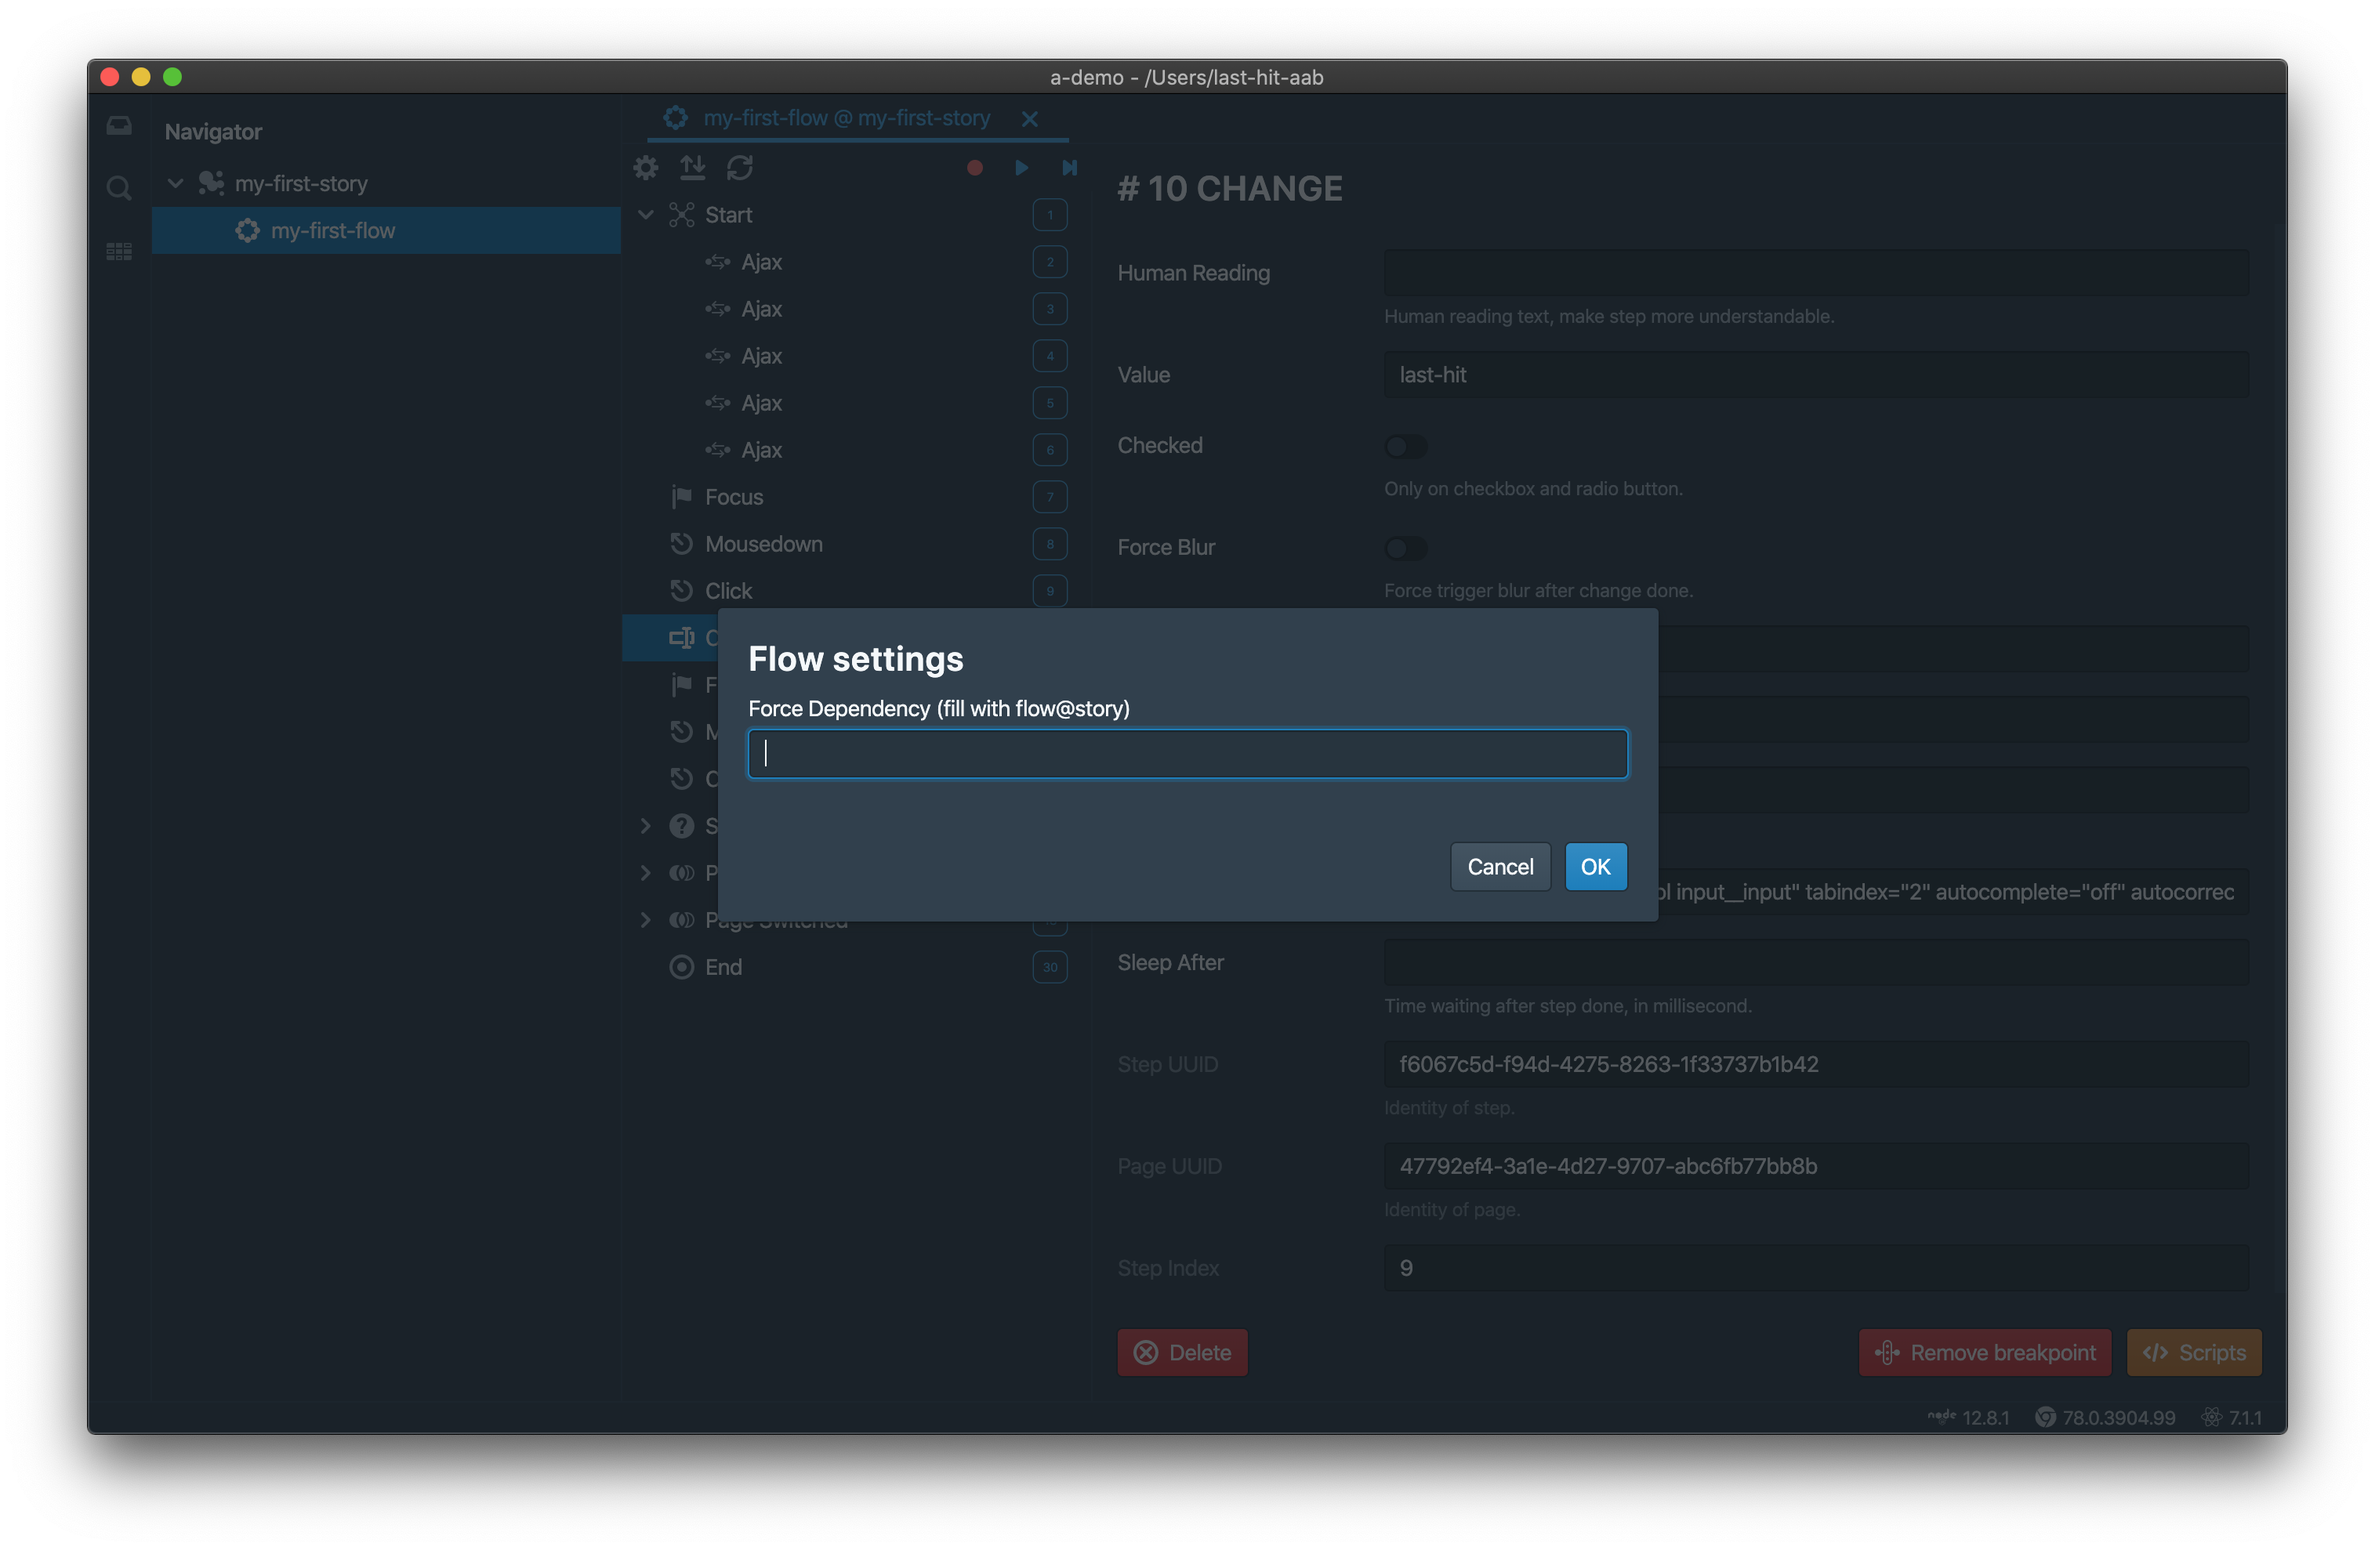
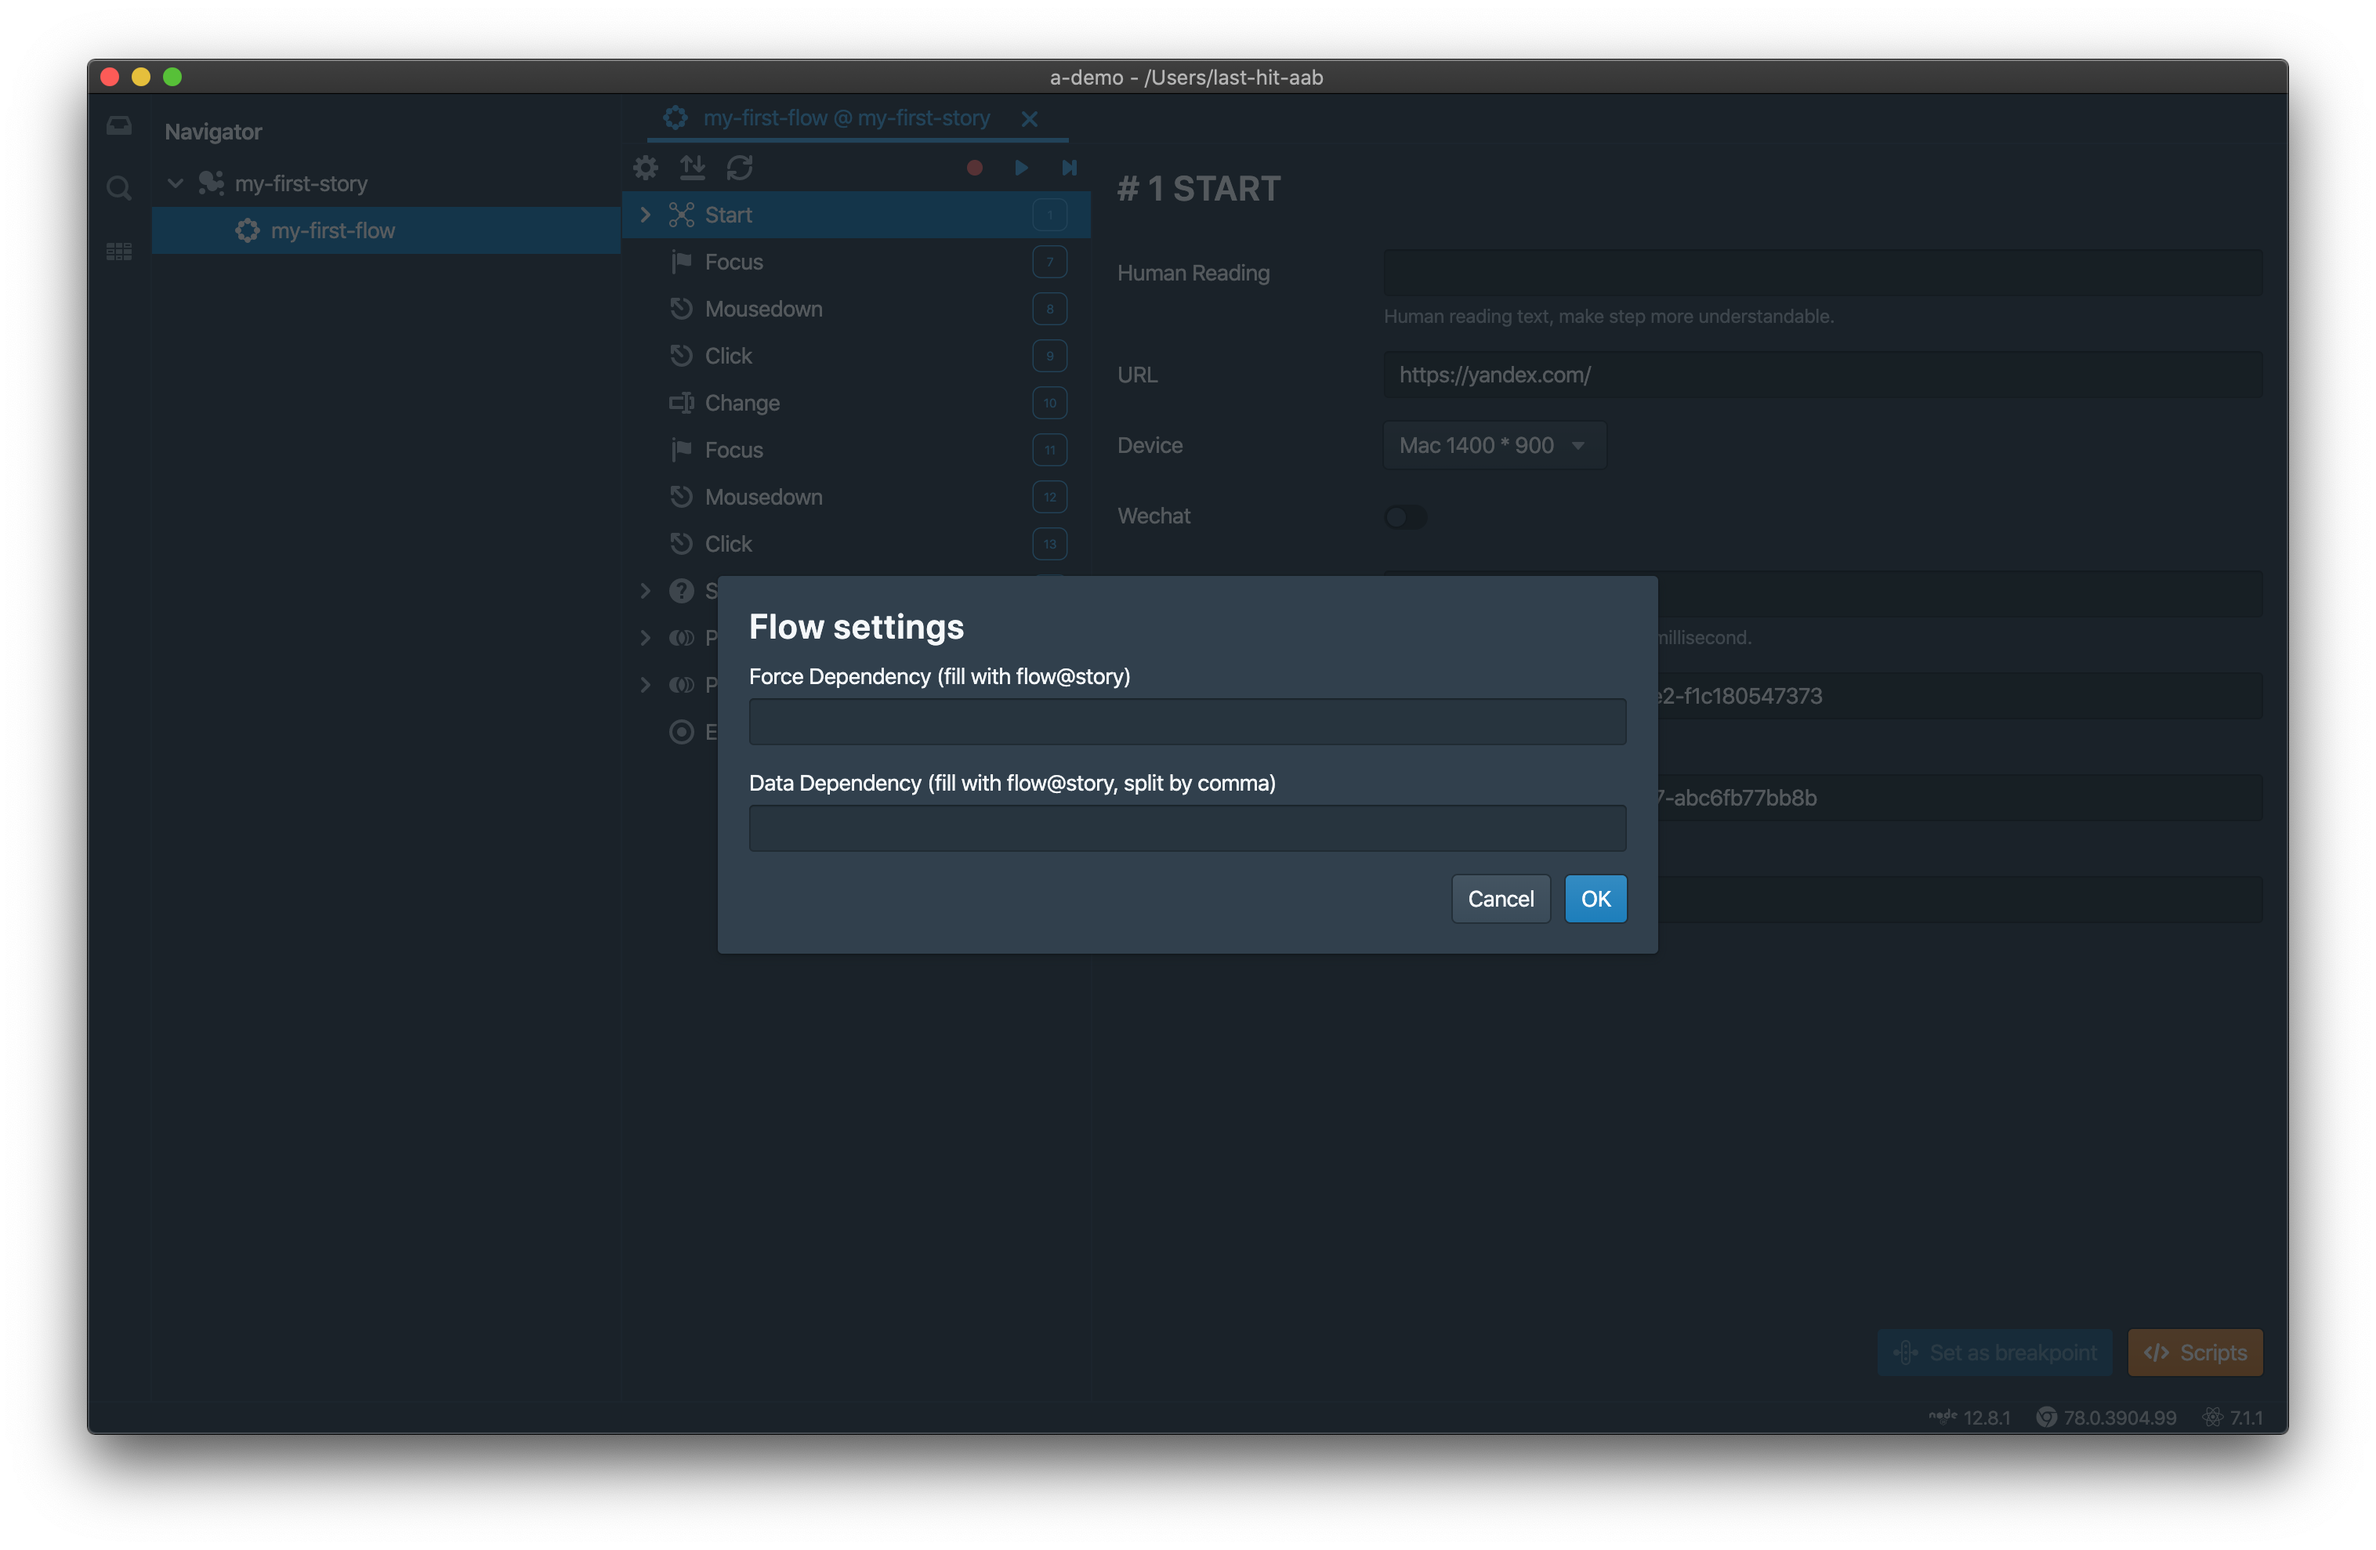
add data dependency

diff --git a/src/pages/zh/docs/tutorial/flow-settings/flow-settings.md b/src/pages/zh/docs/tutorial/flow-settings/flow-settings.md
@@ -23,9 +23,14 @@ author: bradwoo8621
 
 > 登陆Flow可能会被很多Flow所依赖。
 
-## 弱依赖
+## 数据依赖
+当一个Flow数据依赖另一个Flow时,  
+- 可以依赖多个
+- 仅在CI生效, 在IDE中不生效
+- 回放时, 被依赖Flow将被首先播放，完成之后当前Flow开始回放
+- 被依赖Flow产生的输入参数值将作为当前Flow的输入参数值使用
 
-> **即将到来**
+> 创建订单Flow可能会被查询订单所依赖。
 
 # 参数化
 参数化是Flow的一种非常重要的特性。

diff --git a/src/pages/docs/tutorial/flow-settings/flow-settings.md b/src/pages/docs/tutorial/flow-settings/flow-settings.md
@@ -23,9 +23,14 @@ When a flow force depends on another flow,
 
 > A login flow might be depended by many flows.
 
-## Soft Dependency
+## Data Dependency
+When a flow data depends on another flow,
+- Can be multiple
+- Not work on IDE, only works on CI
+- On replay, run after another flow
+- Output parameters from another flow will be passed as input parameters as this flow
 
-> **Coming soon.**
+> Create order flow might be depended by query order flow.
 
 # Parameterization
 Parameterization is a very important feature of flow.
